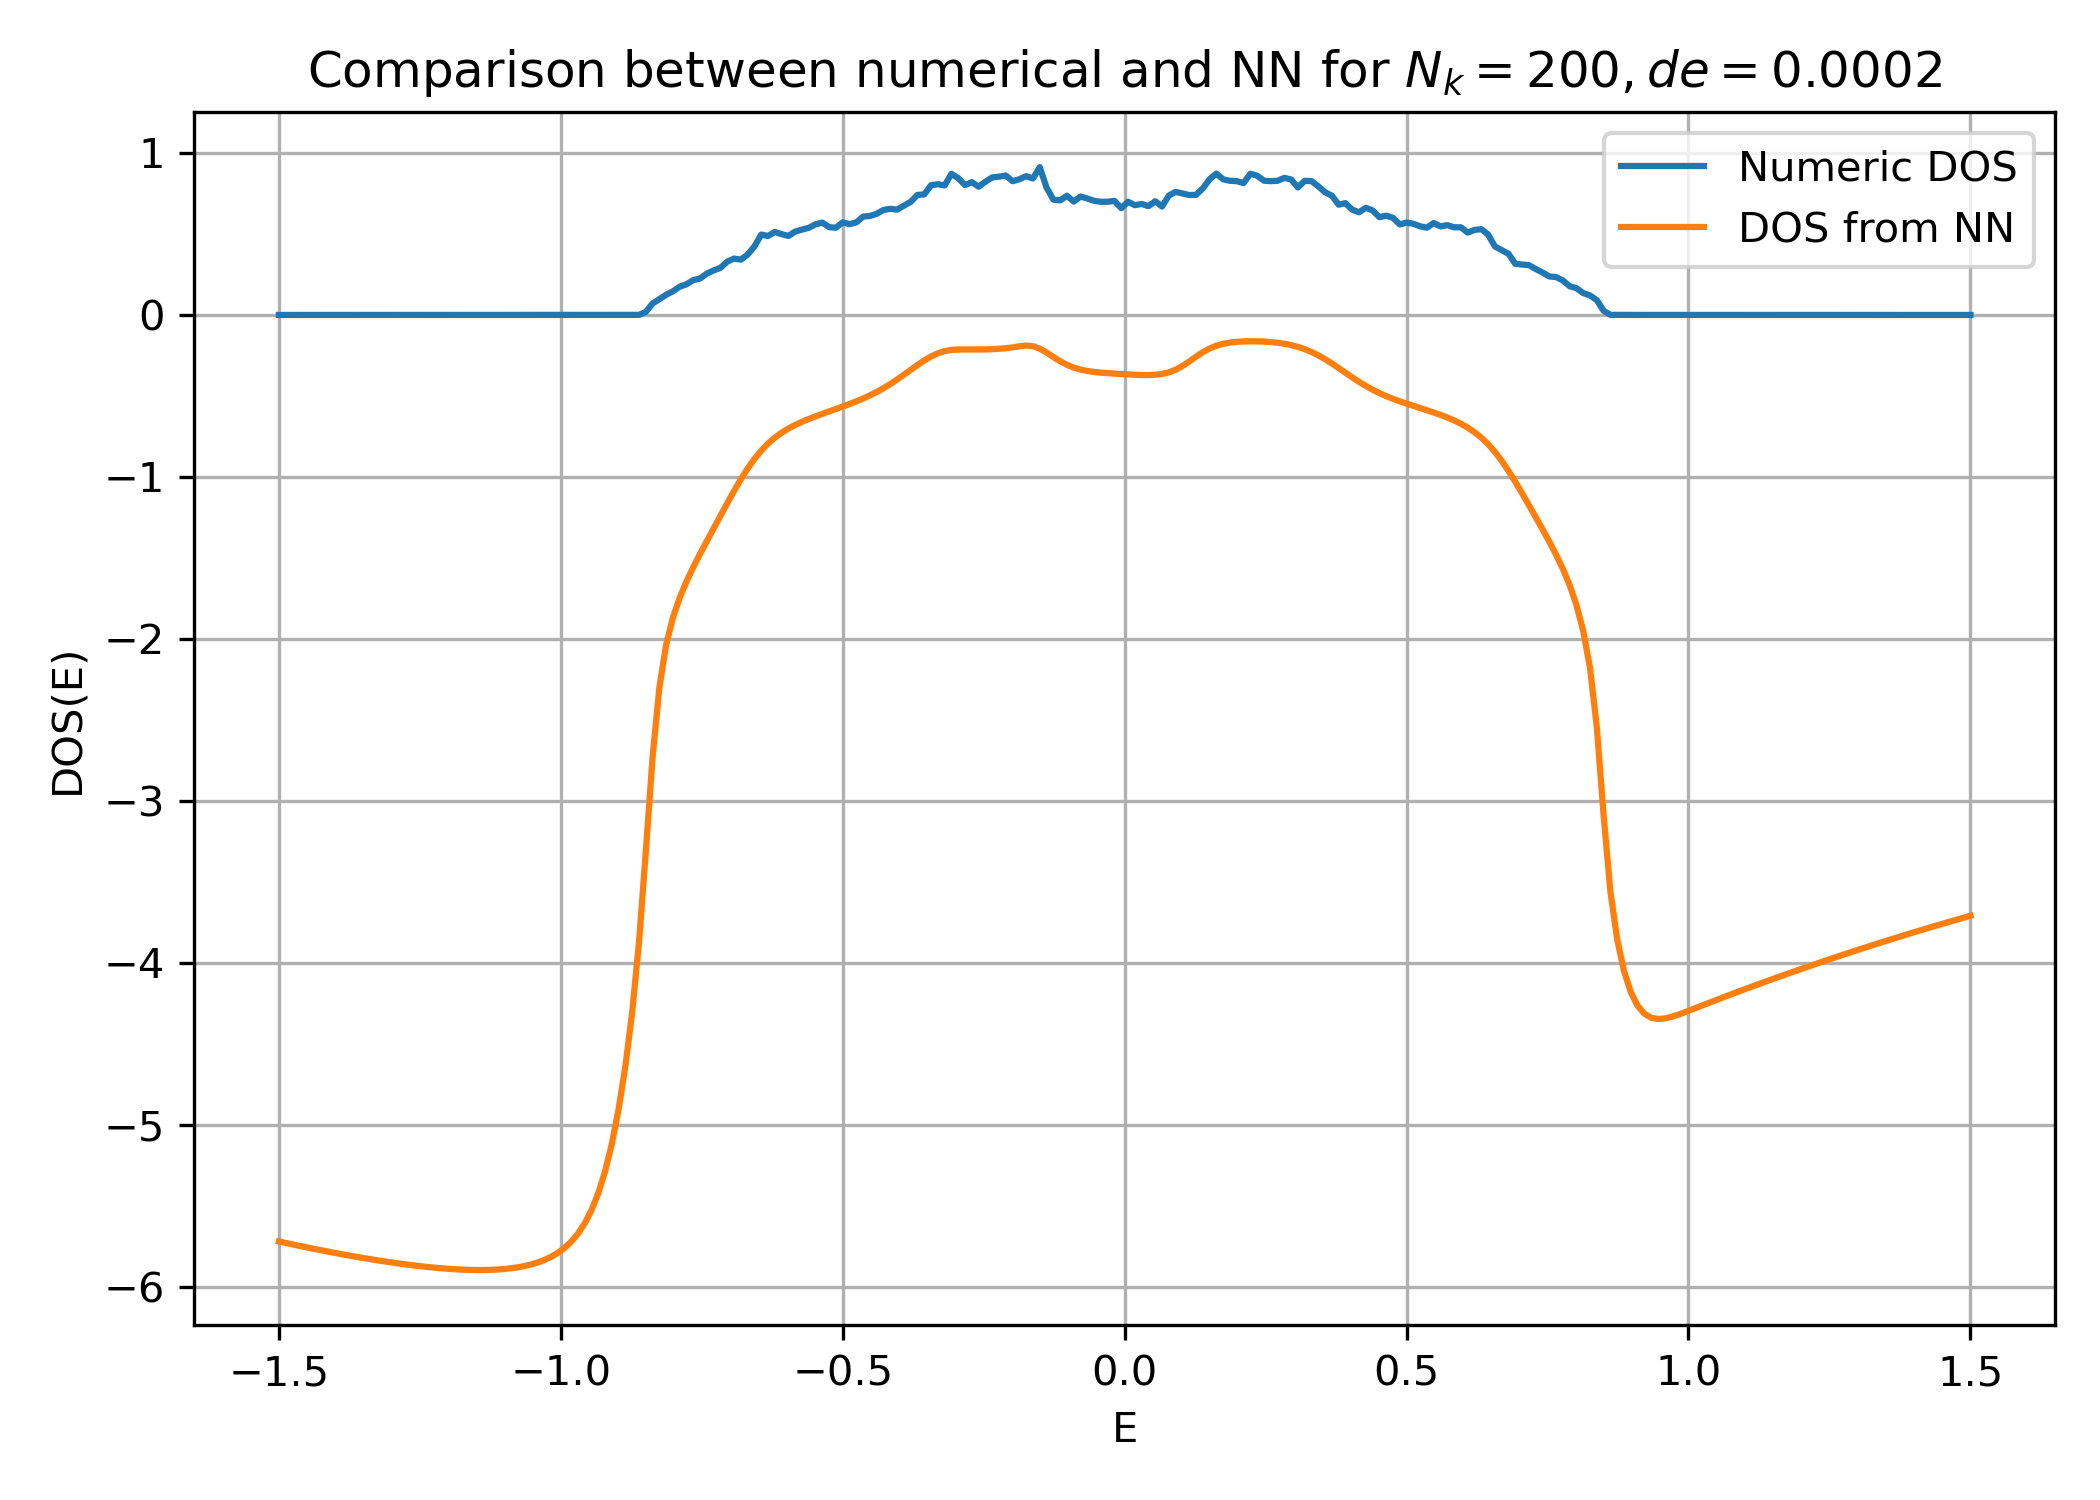
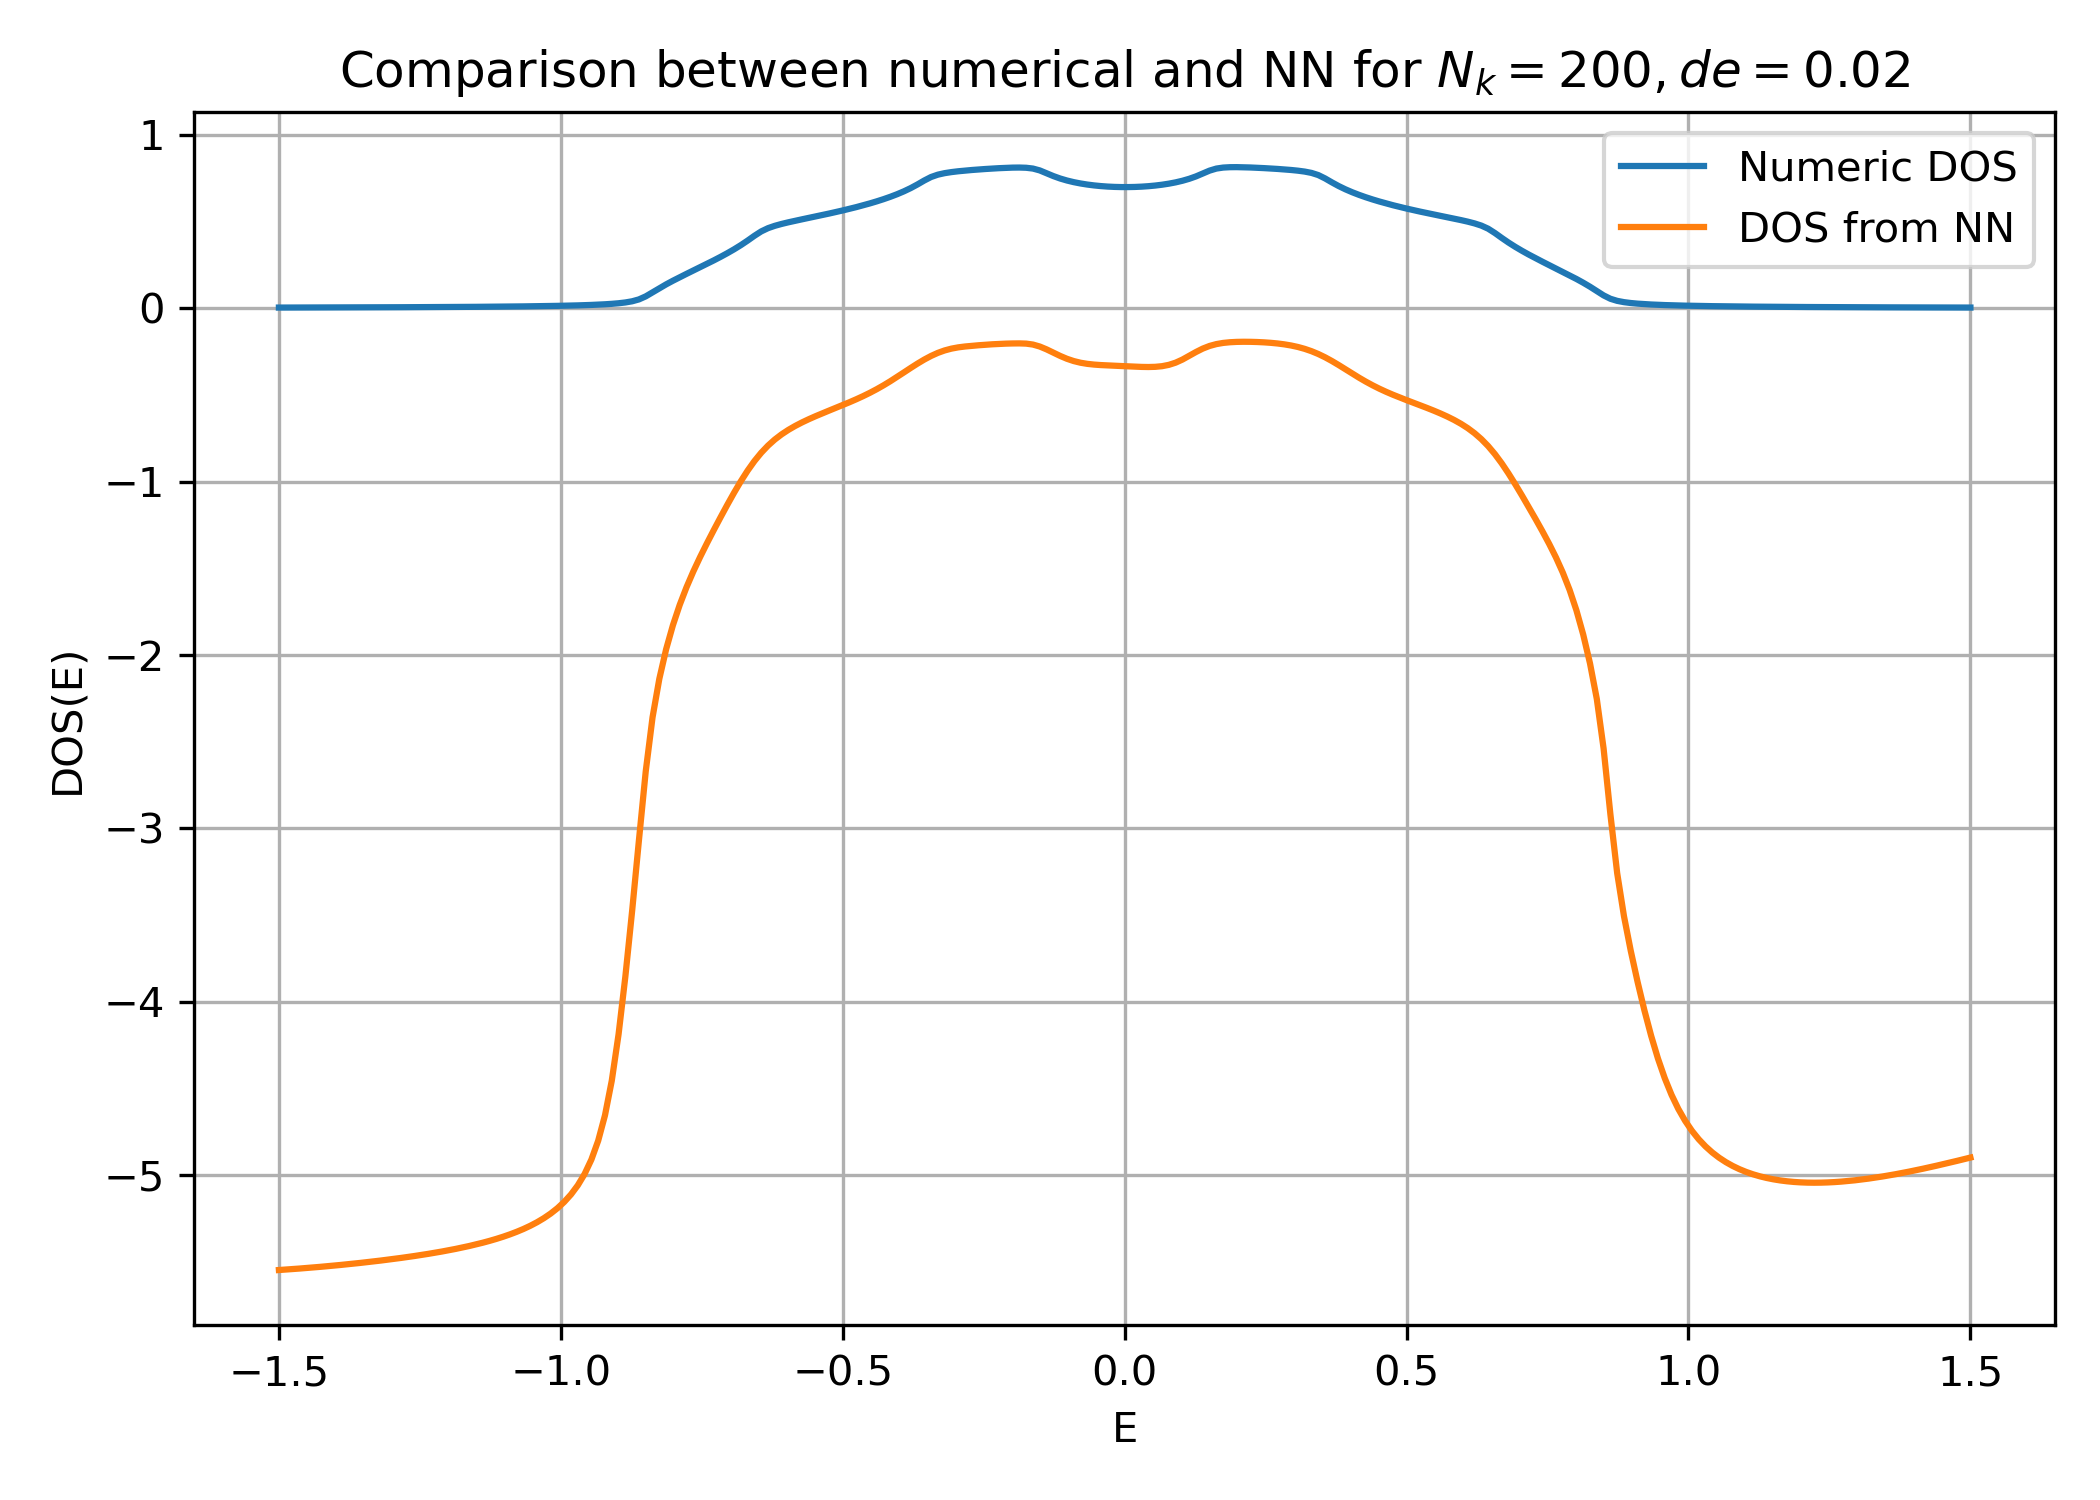
Try 3

diff --git a/use_DOS_nn.py b/use_DOS_nn.py
@@ -60,7 +60,7 @@ data = np.load("dos_dataset.npz")
 E_grid = data["E_grid"]
 epsilon = data["e"]
 
-de = 2e-4
+de = 2e-2
 a = 0.5
 b = 0.2
 